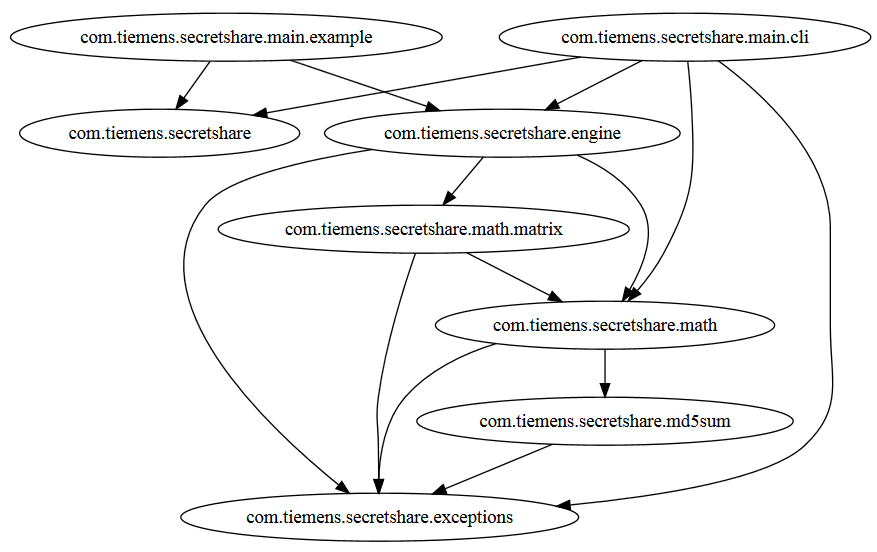
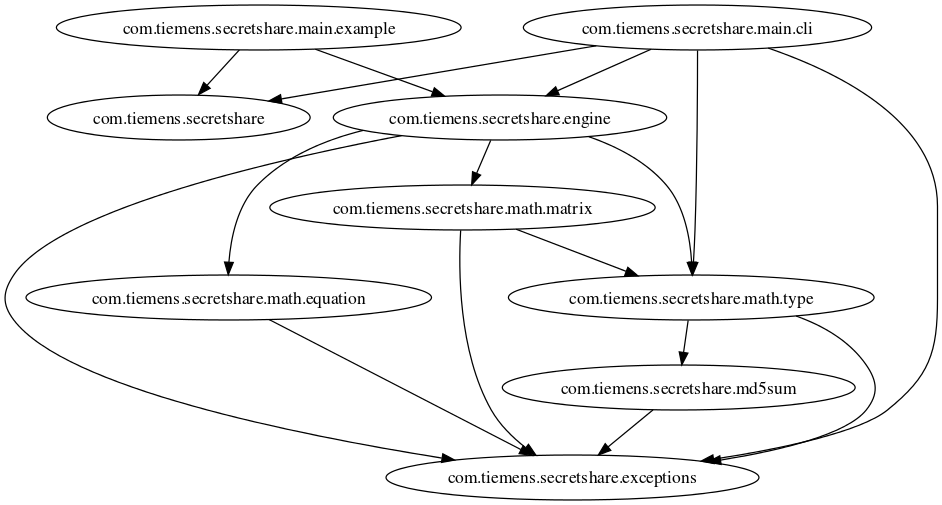
refactor math package to clean up dependency graph

diff --git a/src/test/java/com/tiemens/secretshare/JDependTest.java b/src/test/java/com/tiemens/secretshare/JDependTest.java
@@ -71,27 +71,37 @@ public class JDependTest extends TestCase
         JavaPackage ssEngine     = constraint.addPackage("com.tiemens.secretshare.engine");
         JavaPackage ssException  = constraint.addPackage("com.tiemens.secretshare.exceptions");
         //JavaPackage ssMain      = constraint.addPackage("com.tiemens.secretshare.main");
-        JavaPackage ssMath       = constraint.addPackage("com.tiemens.secretshare.math");
         JavaPackage ssMd5        = constraint.addPackage("com.tiemens.secretshare.md5sum");
-        JavaPackage ssMathMatrix = constraint.addPackage("com.tiemens.secretshare.math.matrix");
+        //JavaPackage ssMath         = constraint.addPackage("com.tiemens.secretshare.math");
+        JavaPackage ssMathMatrix   = constraint.addPackage("com.tiemens.secretshare.math.matrix");
+        JavaPackage ssMathCombo    = constraint.addPackage("com.tiemens.secretshare.math.combination");
+        JavaPackage ssMathEquation = constraint.addPackage("com.tiemens.secretshare.math.equation");
+        JavaPackage ssMathType     = constraint.addPackage("com.tiemens.secretshare.math.type");
         JavaPackage ssMainTest   = constraint.addPackage("com.tiemens.secretshare.main.test");
         JavaPackage ssMainCli    = constraint.addPackage("com.tiemens.secretshare.main.cli");
 
         ssEngine.dependsUpon(ssException);
-        ssEngine.dependsUpon(ssMath);
+        ssEngine.dependsUpon(ssMathCombo);
+        ssEngine.dependsUpon(ssMathEquation);
         ssEngine.dependsUpon(ssMathMatrix);
+        ssEngine.dependsUpon(ssMathType);
 
         ssMainCli.dependsUpon(ssTop);
         ssMainCli.dependsUpon(ssEngine);
         ssMainCli.dependsUpon(ssException);
-        ssMainCli.dependsUpon(ssMath);
+        ssMainCli.dependsUpon(ssMathType);
 
-        ssMainTest.dependsUpon(ssEngine);
+        //ssMainTest.dependsUpon(ssEngine);
 
-        ssMath.dependsUpon(ssException);
-        ssMath.dependsUpon(ssMd5);
+        ssMathCombo.dependsUpon(ssException);
 
-        ssMathMatrix.dependsUpon(ssMath);
+        ssMathEquation.dependsUpon(ssException);
+
+        ssMathMatrix.dependsUpon(ssException);
+        ssMathMatrix.dependsUpon(ssMathType);
+
+        ssMathType.dependsUpon(ssException);
+        ssMathType.dependsUpon(ssMd5);
 
         ssMd5.dependsUpon(ssException);
 
@@ -163,12 +173,14 @@ public class JDependTest extends TestCase
     }
 
     @SuppressWarnings("unchecked")
-    private Collection<JavaPackage> doAnalyze(JDepend jdepend) {
+    private Collection<JavaPackage> doAnalyze(JDepend jdepend)
+    {
         return (Collection<JavaPackage>) jdepend.analyze();
     }
 
     @SuppressWarnings("unchecked")
-    private Iterator<JavaPackage> doGetPackageIterator(JDepend jdepend) {
+    private Iterator<JavaPackage> doGetPackageIterator(JDepend jdepend)
+    {
         return jdepend.getPackages().iterator();
     }
     /**

diff --git a/src/main/java/com/tiemens/secretshare/math/type/HexByteUtilities.java b/src/main/java/com/tiemens/secretshare/math/type/HexByteUtilities.java
@@ -14,11 +14,10 @@
  * Contributors:
  *     Tim Tiemens - initial API and implementation
  *******************************************************************************/
-package com.tiemens.secretshare.math;
+package com.tiemens.secretshare.math.type;
 
 public final class HexByteUtilities
 {
-
 
     // ==================================================
     // class static data
@@ -52,10 +51,38 @@ public final class HexByteUtilities
       return hexToBytes(hex.toCharArray());
     }
 
+    private static String[] lookup = { "0", "1", "2", "3", "4", "5", "6", "7",
+            "8", "9", "A", "B", "C", "D", "E", "F"
+    };
+
+    private static String byteToHexString(byte b)
+    {
+        String ret = "";
+        byte ch = 0x00;
+        ch = (byte) (b & 0xF0); // strip off high
+        ch = (byte) (ch >>> 4); // shift
+        ch = (byte) (ch & 0X0F); // the >>> turned on high bits, get rid of them
+        ret += lookup[ch];
+
+        ch = (byte) (b & 0X0F);
+        ret += lookup[ch];
+
+        return ret;
+    }
+
     public static String printAsHex(byte[] bytes)
     {
-        String s2 = BigIntStringChecksum.bytesToHexString(bytes);
-        return s2;
+        return bytesToHexString(bytes);
+    }
+
+    public static String bytesToHexString(byte[] bytes)
+    {
+        String ret = "";
+        for (byte b : bytes)
+        {
+            ret += byteToHexString(b);
+        }
+        return ret;
     }
 
 

diff --git a/src/main/java/com/tiemens/secretshare/math/type/BigIntStringChecksum.java b/src/main/java/com/tiemens/secretshare/math/type/BigIntStringChecksum.java
@@ -14,7 +14,7 @@
  * Contributors:
  *     Tim Tiemens - initial API and implementation
  *******************************************************************************/
-package com.tiemens.secretshare.math;
+package com.tiemens.secretshare.math.type;
 
 import java.math.BigInteger;
 
@@ -322,33 +322,9 @@ public final class BigIntStringChecksum
     // non public methods
     // ==================================================
 
-    /* private */static String bytesToHexString(byte... in)
+    /* private */static String bytesToHexString(byte... bytes)
     {
-        String ret = "";
-        for (byte b : in)
-        {
-            ret += byteToHexString(b);
-        }
-        return ret;
-    }
-
-    private static String[] lookup = { "0", "1", "2", "3", "4", "5", "6", "7",
-                                       "8", "9", "A", "B", "C", "D", "E", "F"
-    };
-
-    private static String byteToHexString(byte b)
-    {
-        String ret = "";
-        byte ch = 0x00;
-        ch = (byte) (b & 0xF0); // strip off high
-        ch = (byte) (ch >>> 4); // shift
-        ch = (byte) (ch & 0X0F); // the >>> turned on high bits, get rid of them
-        ret += lookup[ch];
-
-        ch = (byte) (b & 0X0F);
-        ret += lookup[ch];
-
-        return ret;
+        return HexByteUtilities.printAsHex(bytes);
     }
 
     private static String insertDashesIntoHex(final String inAsHex)

diff --git a/src/main/java/com/tiemens/secretshare/engine/SecretShare.java b/src/main/java/com/tiemens/secretshare/engine/SecretShare.java
@@ -35,15 +35,15 @@ import java.util.Set;
 import java.util.UUID;
 
 import com.tiemens.secretshare.exceptions.SecretShareException;
-import com.tiemens.secretshare.math.BigIntStringChecksum;
-import com.tiemens.secretshare.math.BigIntUtilities;
-import com.tiemens.secretshare.math.BigRational;
-import com.tiemens.secretshare.math.CombinationGenerator;
-import com.tiemens.secretshare.math.EasyLinearEquation;
-import com.tiemens.secretshare.math.PolyEquationImpl;
+import com.tiemens.secretshare.math.combination.CombinationGenerator;
+import com.tiemens.secretshare.math.equation.EasyLinearEquation;
+import com.tiemens.secretshare.math.equation.PolyEquationImpl;
 import com.tiemens.secretshare.math.matrix.BigRationalMatrix;
 import com.tiemens.secretshare.math.matrix.NumberMatrix;
 import com.tiemens.secretshare.math.matrix.NumberSimplex;
+import com.tiemens.secretshare.math.type.BigIntStringChecksum;
+import com.tiemens.secretshare.math.type.BigIntUtilities;
+import com.tiemens.secretshare.math.type.BigRational;
 
 /**
  * Main class for the "Shamir's Secret Sharing" implementation.

diff --git a/src/test/java/com/tiemens/secretshare/SuiteTest.java b/src/test/java/com/tiemens/secretshare/SuiteTest.java
@@ -21,10 +21,10 @@ import org.junit.runner.RunWith;
 import org.junit.runners.Suite;
 
 import com.tiemens.secretshare.engine.SecretShareTest;
-import com.tiemens.secretshare.math.BigIntStringChecksumTest;
-import com.tiemens.secretshare.math.BigIntUtilitiesTest;
-import com.tiemens.secretshare.math.EasyLinearEquationTest;
-import com.tiemens.secretshare.math.PolyEquationImplTest;
+import com.tiemens.secretshare.math.equation.EasyLinearEquationTest;
+import com.tiemens.secretshare.math.equation.PolyEquationImplTest;
+import com.tiemens.secretshare.math.type.BigIntStringChecksumTest;
+import com.tiemens.secretshare.math.type.BigIntUtilitiesTest;
 
 @RunWith(Suite.class)
 @Suite.SuiteClasses({

diff --git a/src/test/java/com/tiemens/secretshare/math/equation/EasyLinearEquationTest.java b/src/test/java/com/tiemens/secretshare/math/equation/EasyLinearEquationTest.java
@@ -14,7 +14,7 @@
  * Contributors:
  *     Tim Tiemens - initial API and implementation
  *******************************************************************************/
-package com.tiemens.secretshare.math;
+package com.tiemens.secretshare.math.equation;
 
 
 import java.io.IOException;
@@ -32,7 +32,7 @@ import java.util.logging.SimpleFormatter;
 import org.junit.Assert;
 import org.junit.Test;
 
-import com.tiemens.secretshare.math.EasyLinearEquation.EasySolve;
+import com.tiemens.secretshare.math.equation.EasyLinearEquation.EasySolve;
 
 public class EasyLinearEquationTest
 {

diff --git a/src/main/java/com/tiemens/secretshare/main/cli/MainCombine.java b/src/main/java/com/tiemens/secretshare/main/cli/MainCombine.java
@@ -31,7 +31,7 @@ import com.tiemens.secretshare.engine.SecretShare.ParanoidOutput;
 import com.tiemens.secretshare.engine.SecretShare.PublicInfo;
 import com.tiemens.secretshare.engine.SecretShare.ShareInfo;
 import com.tiemens.secretshare.exceptions.SecretShareException;
-import com.tiemens.secretshare.math.BigIntUtilities;
+import com.tiemens.secretshare.math.type.BigIntUtilities;
 
 /**
  * Main command line for the "combine" (aka "recover") of a secret.

diff --git a/src/main/java/com/tiemens/secretshare/main/cli/MainSplit.java b/src/main/java/com/tiemens/secretshare/main/cli/MainSplit.java
@@ -30,7 +30,7 @@ import com.tiemens.secretshare.engine.SecretShare.PublicInfo;
 import com.tiemens.secretshare.engine.SecretShare.ShareInfo;
 import com.tiemens.secretshare.engine.SecretShare.SplitSecretOutput;
 import com.tiemens.secretshare.exceptions.SecretShareException;
-import com.tiemens.secretshare.math.BigIntUtilities;
+import com.tiemens.secretshare.math.type.BigIntUtilities;
 
 /**
  * Main command line for the "split" (aka "create") of a secret.

diff --git a/src/test/java/com/tiemens/secretshare/engine/SecretShareTest.java b/src/test/java/com/tiemens/secretshare/engine/SecretShareTest.java
@@ -27,8 +27,8 @@ import org.junit.Test;
 
 import com.tiemens.secretshare.engine.SecretShare.ShareInfo;
 import com.tiemens.secretshare.exceptions.SecretShareException;
-import com.tiemens.secretshare.math.BigIntStringChecksum;
-import com.tiemens.secretshare.math.EasyLinearEquationTest;
+import com.tiemens.secretshare.math.equation.EasyLinearEquationTest;
+import com.tiemens.secretshare.math.type.BigIntStringChecksum;
 
 public class SecretShareTest
 {

diff --git a/src/main/java/com/tiemens/secretshare/main/cli/MainInfo.java b/src/main/java/com/tiemens/secretshare/main/cli/MainInfo.java
@@ -24,7 +24,7 @@ import java.util.Map;
 
 import com.tiemens.secretshare.engine.SecretShare;
 import com.tiemens.secretshare.exceptions.SecretShareException;
-import com.tiemens.secretshare.math.BigIntUtilities;
+import com.tiemens.secretshare.math.type.BigIntUtilities;
 
 /**
  * Main command line for the "info" (aka "information") of secret share program/library.

diff --git a/src/main/java/com/tiemens/secretshare/main/cli/MainBigIntCs.java b/src/main/java/com/tiemens/secretshare/main/cli/MainBigIntCs.java
@@ -23,7 +23,7 @@ import java.util.ArrayList;
 import java.util.List;
 
 import com.tiemens.secretshare.exceptions.SecretShareException;
-import com.tiemens.secretshare.math.BigIntUtilities;
+import com.tiemens.secretshare.math.type.BigIntUtilities;
 
 /**
  * Main command line for the "bigintcs" utilities - converting to/from bigintcs, bigint, and String.

diff --git a/src/test/java/com/tiemens/secretshare/math/type/BigIntStringChecksumTest.java b/src/test/java/com/tiemens/secretshare/math/type/BigIntStringChecksumTest.java
@@ -14,7 +14,7 @@
  * Contributors:
  *     Tim Tiemens - initial API and implementation
  *******************************************************************************/
-package com.tiemens.secretshare.math;
+package com.tiemens.secretshare.math.type;
 
 import static org.junit.Assert.assertNotNull;
 import static org.junit.Assert.assertNull;
